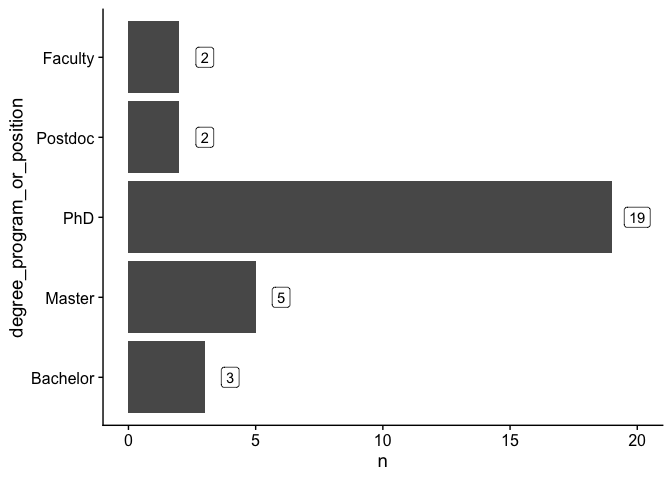
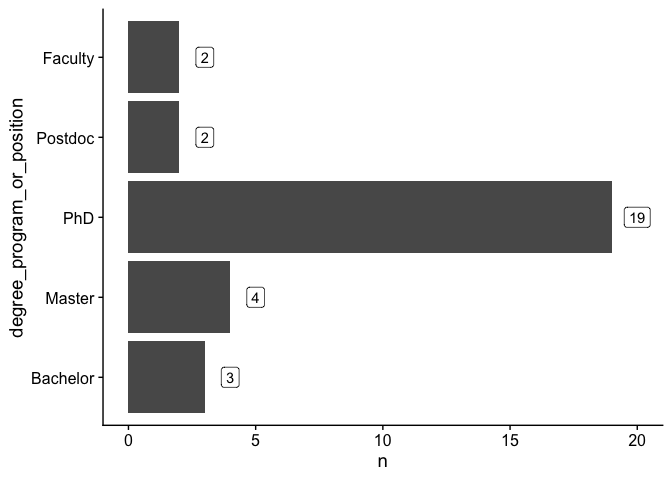
removed a duplicated entry

Changed region(s): [[0.3438, 0.5312, 0.4375, 0.7188]]

diff --git a/misc/pre_course_survey_results.md b/misc/pre_course_survey_results.md
@@ -4,7 +4,7 @@ Pre-course survey results
 -   [Load required packages](#load-required-packages)
 -   [Read in the data from Google Sheet](#read-in-the-data-from-google-sheet)
 -   [Show first few rows of raw data](#show-first-few-rows-of-raw-data)
--   [Data tidying and wrangling](#data-tidying-and-wrangling)
+-   [Data tidying and transformation](#data-tidying-and-transformation)
 -   [Class stats](#class-stats)
     -   [Department](#department)
     -   [Degree program / position](#degree-program-position)
@@ -48,16 +48,17 @@ survey_raw %>% head(n=2) %>% kable()
 | NA                    | PhD                        | 1                             | No                                                                        | Novice                                                                  | Novice                                           | Novice                                                 | None                                                                   | None                                                      | None                                                          | Novice                                                                                                    | Novice                                                                                                        | Novice                                                                                                   | Novice                                                                                                 | Single cell genomics data analysis                                                                                                    | NA                                                                                                                                                                                                                                 | NA                                 |
 | Microbiology          | PhD                        | 1                             | Yes                                                                       | Intermediate                                                            | Novice                                           | Novice                                                 | Novice                                                                 | Novice                                                    | Novice                                                        | Novice                                                                                                    | Novice                                                                                                        | Novice                                                                                                   | Novice                                                                                                 | To improve my data analysis skills, learn to use GitHub, and improve my general programming skills (learn a new programming language) | NA                                                                                                                                                                                                                                 | NA                                 |
 
-Data tidying and wrangling
---------------------------
+Data tidying and transformation
+-------------------------------
 
 ``` r
-## clean column names, parce certain columns, factor relevel the degree program column, and clean the department column
+## clean column names, remove one duplicated entry, parce certain columns, factor relevel the degree program column, and clean the department column
 survey <- survey_raw %>% 
   clean_names() %>%
   rename(department=department_optional, 
          year_in_your_program_or_position = year_in_your_program_position, 
          ntres_6600=did_you_take_the_ntres_6600_research_data_management_seminar_this_winter) %>%
+  filter(department != "CALS" | is.na(department)) %>%
   mutate(year_in_your_program_or_position=as.character(year_in_your_program_or_position)) %>%
   mutate(degree_program_or_position=fct_relevel(degree_program_or_position, levels = c("Bachelor", "Master", "PhD", "Postdoc", "Faculty"))) %>%
   mutate(department=ifelse(department %in% c("DNR", "NR"), "Natural Resources", department)) %>%
@@ -129,7 +130,7 @@ count(survey, degree_program_or_position, year_in_your_program_or_position) %>%
   ggplot(aes(x=year, y=n, label=n)) +
   geom_col(aes(fill=year)) +
   geom_text(aes(y=n+0.5)) +
-  ylim(c(0,6)) +
+  ylim(c(0,7)) +
   facet_wrap(~degree_program_or_position, nrow = 1) +
   scale_fill_viridis_d() +
   theme_cowplot()
@@ -196,7 +197,7 @@ survey$why_do_you_want_to_take_this_class %>%
   str_to_lower() %>%
   tibble(word=.) %>%
   count(word) %>%
-  filter(! word %in% c("", "s", "ve", "can", "also", "want", "use", "even", "like", "get", "using", "around", stopwords(language = "english")), n>1) %>%
+  filter(! word %in% c("", "s", "ve", "can", "also", "want", "use", "used", "know", "even", "like", "get", "using", "around", stopwords(language = "english")), n>1) %>%
   ggplot(aes(label=word, size=log(n), color=as.character(n))) +
   geom_text_wordcloud_area(shape = "diamond", eccentricity=0.6) +
   scale_size_area(max_size = 24) +
